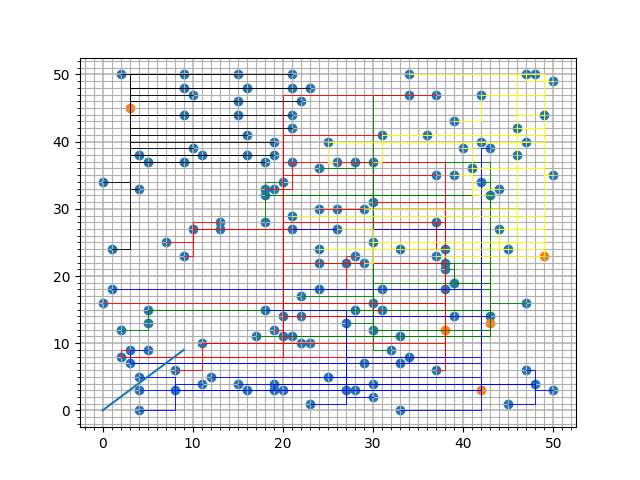
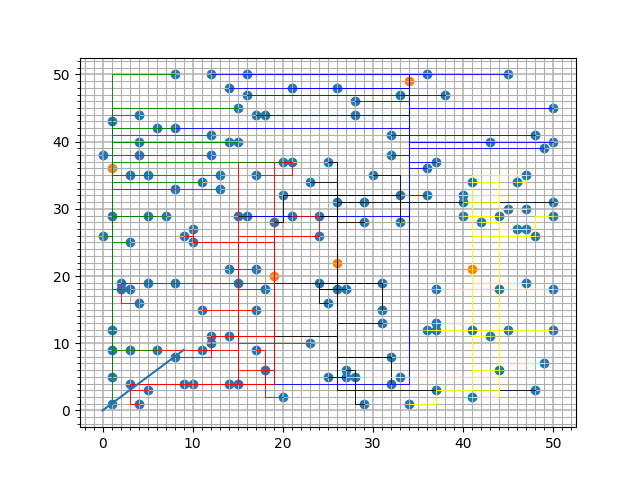
First version of new climber added

Changed region(s): [[0.1562, 0.125, 0.875, 0.875], [0.1562, 0.4375, 0.2812, 0.5312], [0.8438, 0.6562, 0.875, 0.7188]]

diff --git a/code/algorithms/connectionClimber.py b/code/algorithms/connectionClimber.py
@@ -1,0 +1,84 @@
+from code.algorithms.randomCables import randomizeCables
+
+
+class ClimbConnections():
+    def __init__(self, batteries, houses, centralPoints, allCentrals):
+        self._batteries = batteries
+        self._houses = houses
+        self._centralPoints = centralPoints
+        self._allCentrals = allCentrals
+        self._batteryLocs = []
+        self.findBatteries()
+        print(self._batteryLocs)
+
+    def findBatteries(self):
+        for battery in self._batteries:
+            self._batteryLocs.append(tuple(battery.location))
+
+        self._batteryLocs = tuple(self._batteryLocs)
+
+    def calculateDistance(self, houseLocation, secondLocation):
+        distance = 0
+        distance += abs(houseLocation[0] - secondLocation[0])
+        distance += abs(houseLocation[1] - secondLocation[1])
+        return distance
+
+    def findConnections(self):
+        lockedHouses = []
+        cableTuples = {}
+        # Maak per batterij een tuple van tuples van alle kabels
+        for battery in self._batteries:
+            for house in battery.houses:
+                cableTuples[battery] = tuple(map(tuple, house.cables))
+
+        # loop door alle batterijen
+        for battery in self._batteries:
+            # loop door alle huizen:
+            for houseOne in battery.houses:
+                if houseOne not in self._centralPoints or tuple(houseOne.location) in self._allCentrals or house in lockedHouses:
+                    continue
+                bestImprovement = 0
+                cableHouseOne = None
+                coordinateCableTwo = None
+                # Bereken de afstand naar het centrale punt vanaf het huis
+                distanceCentral = self.calculateDistance(
+                    houseOne.location, self._centralPoints[houseOne])
+                # Loop door al de kabels van dit huis heen
+                for cableOne in houseOne.cables:
+                    distanceCentral -= 1
+                    # Is er een coordinaat van een ander huis die
+                    # een afstand heeft kleiner dan de afstand die het
+                    # huis vanaf dit coordinaat nog moet naar de batterij?
+                    for i in range((-distanceCentral - 1), (distanceCentral - 1), 1):
+                        for j in range(-distanceCentral, distanceCentral, 1):
+                            if ((cableOne[0] + i), (cableOne[1]) + j) in cableTuples[battery]:
+                                distanceCable = self.calculateDistance(
+                                    cableOne, ((cableOne[0] + i), (cableOne[1]) + j))
+                                distanceImprovement = distanceCentral - distanceCable
+                                # Is deze afstandverschil kleiner dan eerder opgeslagen?
+                                # Sla het verschil tussen de afstanden op
+                                # Sla de coordinaat van de andere kabel op
+                                # Sla de index van huidige coordinaat op
+                                if distanceImprovement > bestImprovement:
+                                    if ((cableOne[0] + i), (cableOne[1]) + j) not in self._batteryLocs:
+                                        bestImprovement = distanceImprovement
+                                        coordinateCableTwo = (
+                                            (cableOne[0] + i), (cableOne[1]) + j)
+                                        cableHouseOne = cableOne
+                                        secondCentral = coordinateCableTwo
+
+                if coordinateCableTwo != None:
+                    indexCable = houseOne.cables.index(
+                        list(cableHouseOne))
+                    houseOne.cables = houseOne.cables[:indexCable]
+                    pathToNew = randomizeCables(
+                        houseOne.location, [coordinateCableTwo[0], coordinateCableTwo[1]])
+                    houseOne.cables = pathToNew + houseOne.cables
+
+                    for house in battery.houses:
+                        if secondCentral in tuple(map(tuple, house.cables)):
+                            lockedHouses.append(house)
+                            break
+
+            # Verwijder alles na de beste index
+            # Maak een pad naar de coordinaat van de andere kabel

diff --git a/code/algorithms/smartCableClimber.py b/code/algorithms/smartCableClimber.py
@@ -1,0 +1,70 @@
+from math import dist
+
+
+class CableClimber():
+    def __init__(self, centralPoints, smallRadius, bigRadius, houseBattery):
+        self._centralPoints = centralPoints
+        self._smallRadius = smallRadius
+        self._bigRadius = bigRadius
+        self._houseBattery = houseBattery
+        self._allCentrals = None
+
+    def calculateDistance(self, houseLocation, centralLocation):
+        distance = 0
+        distance += abs(houseLocation[0] - centralLocation[0])
+        distance += abs(houseLocation[1] - centralLocation[1])
+        return distance
+
+    def betterSmall(self):
+        centralPoints = {}
+
+        for bigRadiusID in range(len(self._smallRadius)-1):
+            centralPoints[bigRadiusID] = []
+            for radius in self._smallRadius[bigRadiusID]:
+                centralPoints[bigRadiusID].append(radius[0])
+
+        for bigRadiusID in range(len(self._smallRadius)-1):
+            for radiusID in range(len(centralPoints)-1):
+                for centralPointID in range(len(centralPoints[radiusID])-1):
+                    for house in self._smallRadius[radiusID][centralPointID]:
+                        currentDistance = self.calculateDistance(
+                            house.location, centralPoints[radiusID][centralPointID].location)
+                        for centralPointTwoID in range(len(centralPoints)-1):
+                            if self._houseBattery[centralPoints[radiusID][centralPointID]] == self._houseBattery[centralPoints[radiusID][centralPointTwoID]]:
+                                if currentDistance > self.calculateDistance(house.location, centralPoints[radiusID][centralPointTwoID].location):
+                                    self.swapSmallRadius(
+                                        house, centralPointTwoID, radiusID, centralPointID)
+
+        return self._smallRadius
+
+    def betterBig(self):
+        centralPoints = []
+        for radius in self._bigRadius:
+            centralPoints.append(radius[0])
+        self._allCentrals = tuple(centralPoints)
+
+        for centralPointID in range(len(centralPoints)-1):
+            for house in self._bigRadius[centralPointID]:
+                currentDistance = self.calculateDistance(
+                    house.location, centralPoints[centralPointID].location)
+                for centralPointTwoID in range(len(centralPoints)-1):
+                    if currentDistance > self.calculateDistance(house.location, centralPoints[centralPointTwoID].location):
+                        self.swapBigRadius(
+                            house, centralPointTwoID, centralPointID)
+
+        return self._bigRadius
+
+    def swapSmallRadius(self, house, centralPointTwoID, radiusID, centralPointID):
+        self._smallRadius[radiusID][centralPointID].remove(house)
+        self._smallRadius[radiusID][centralPointTwoID].append(house)
+
+    def swapBigRadius(self, house, centralPointTwoID, centralPointID):
+        if house in self._bigRadius[centralPointID]:
+            self._bigRadius[centralPointID].remove(house)
+            self._bigRadius[centralPointTwoID].append(house)
+
+    def betterRadiuses(self):
+        return [self.betterSmall(), self.betterBig()]
+
+    def returnCentralPoints(self):
+        return self._centralPoints

diff --git a/astarloop.py b/astarloop.py
@@ -5,6 +5,8 @@ from code.calculations.costCalculation import *
 from code.visualisation.visualisation import visualize
 from code.algorithms.smartCables import GenerateSmartCables
 from code.calculations.sharedCosts import *
+from code.algorithms.smartCableClimber import CableClimber
+from code.algorithms.connectionClimber import ClimbConnections
 
 
 def iterateAstar(grid, loops):
@@ -87,6 +89,7 @@ def iterateAstar(grid, loops):
     # lay the cables down smarter
     newCables = GenerateSmartCables(grid.batteries, grid.houses, bestResult)
     result = newCables.findCentralPoint()
+
     for house in result:
         house.cables = randomizeCables(
             house.location, [result[house][0], result[house][1]])
@@ -98,5 +101,32 @@ def iterateAstar(grid, loops):
     print(
         f"Costs after hillclimber, with shared cables, smart cables:{grid.district.ownCosts}")
     visualize(grid, "sharedClimber")
+
+    cableClimber = CableClimber(result, newCables.returnRadius()[
+                                0], newCables.returnRadius()[1], bestResult)
+    newPoints = cableClimber.betterRadiuses()
+    result = newCables.updateCentralPoints(newPoints)
+
+    for house in result:
+        house.cables = randomizeCables(
+            house.location, [result[house][0], result[house][1]])
+        house.cables = house.cables + (randomizeCables(
+            [result[house][0], result[house][1]], bestResult[house].location))
+
+    grid.district.ownCosts = calculateCostShared(
+        len(grid.batteries), grid.batteries)
+    print(
+        f"Costs after cable hillclimber:{grid.district.ownCosts}")
+    visualize(grid, "radiusClimber")
+
+    centralPoints = cableClimber.returnCentralPoints()
+
+    connectionClimber = ClimbConnections(
+        grid.batteries, grid.houses, result, centralPoints)
+    connectionClimber.findConnections()
+    grid.district.ownCosts = calculateCostShared(
+        len(grid.batteries), grid.batteries)
+    visualize(grid, "connectionClimber")
+    print(f"Last climber to find connections: {grid.district.ownCosts}")
 
     return grid

diff --git a/code/algorithms/smartCables.py b/code/algorithms/smartCables.py
@@ -35,6 +35,14 @@ class GenerateSmartCables():
 
         return self._centralPoints
 
+    def returnRadius(self):
+        return [self._smallRadius, self._bestBigRadius]
+
+    def updateCentralPoints(self, radius):
+        self._smallRadius = radius[0]
+        self._bestBigRadius = radius[1]
+        return self.findCentralPoint()
+
     def calculateDistance(self, house, battery):
         '''
         calcultate the distance from a house to a battery
@@ -52,7 +60,7 @@ class GenerateSmartCables():
         n amount of times, to find the best score of big radiuses.
         '''
         bestScore = 9999
-        for i in range(1000):
+        for i in range(10):
             # randomize the houses order, size of each radius and the limit of houses
             # that are allowed to not have a radius.
             random.shuffle(self._houses)

diff --git a/code/algorithms/astar.py b/code/algorithms/astar.py
@@ -180,7 +180,6 @@ class astar():
     # find the closest battery that hasn't reached it's capacity yet
 
     def findBattery(self):
-        # print(houseList)
         # store all batteries that are matched with each house
         houseBattery = {}
         # loop through all houses that have not yet been assigned a battery
